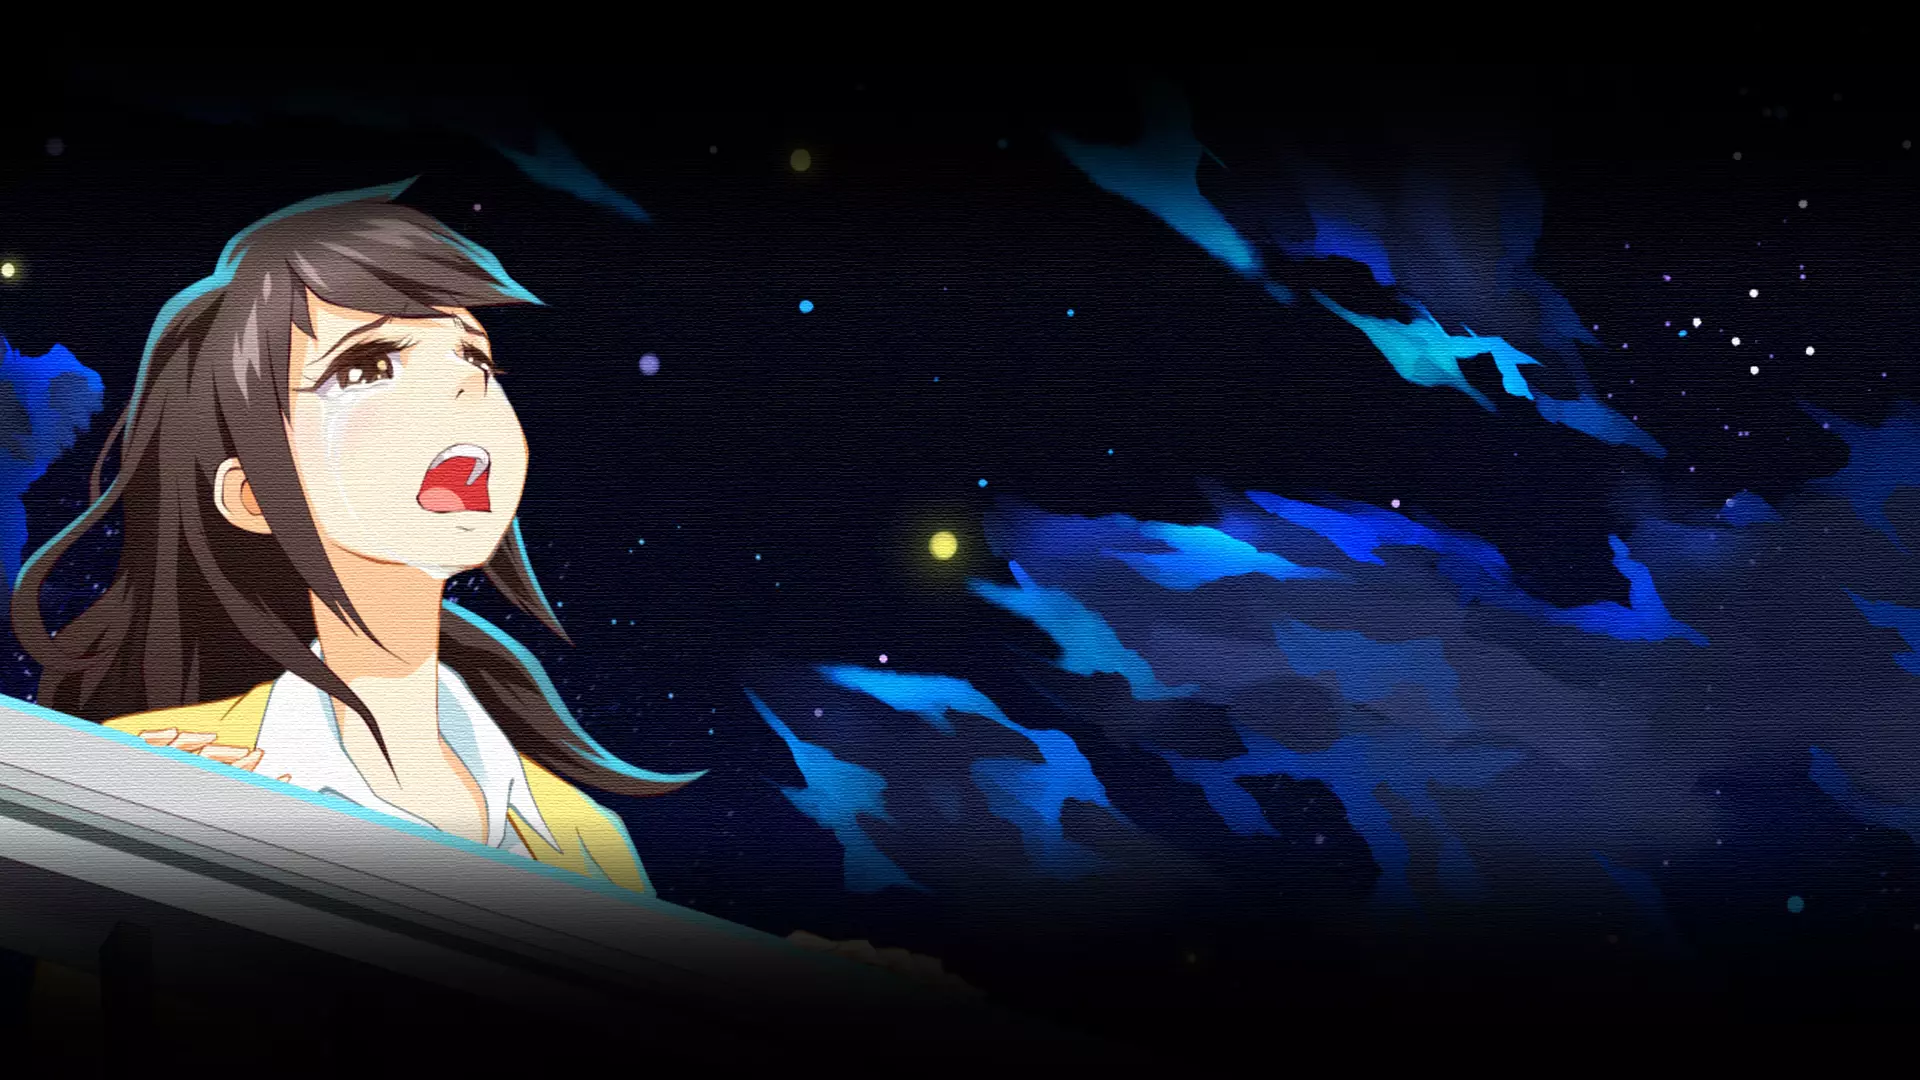
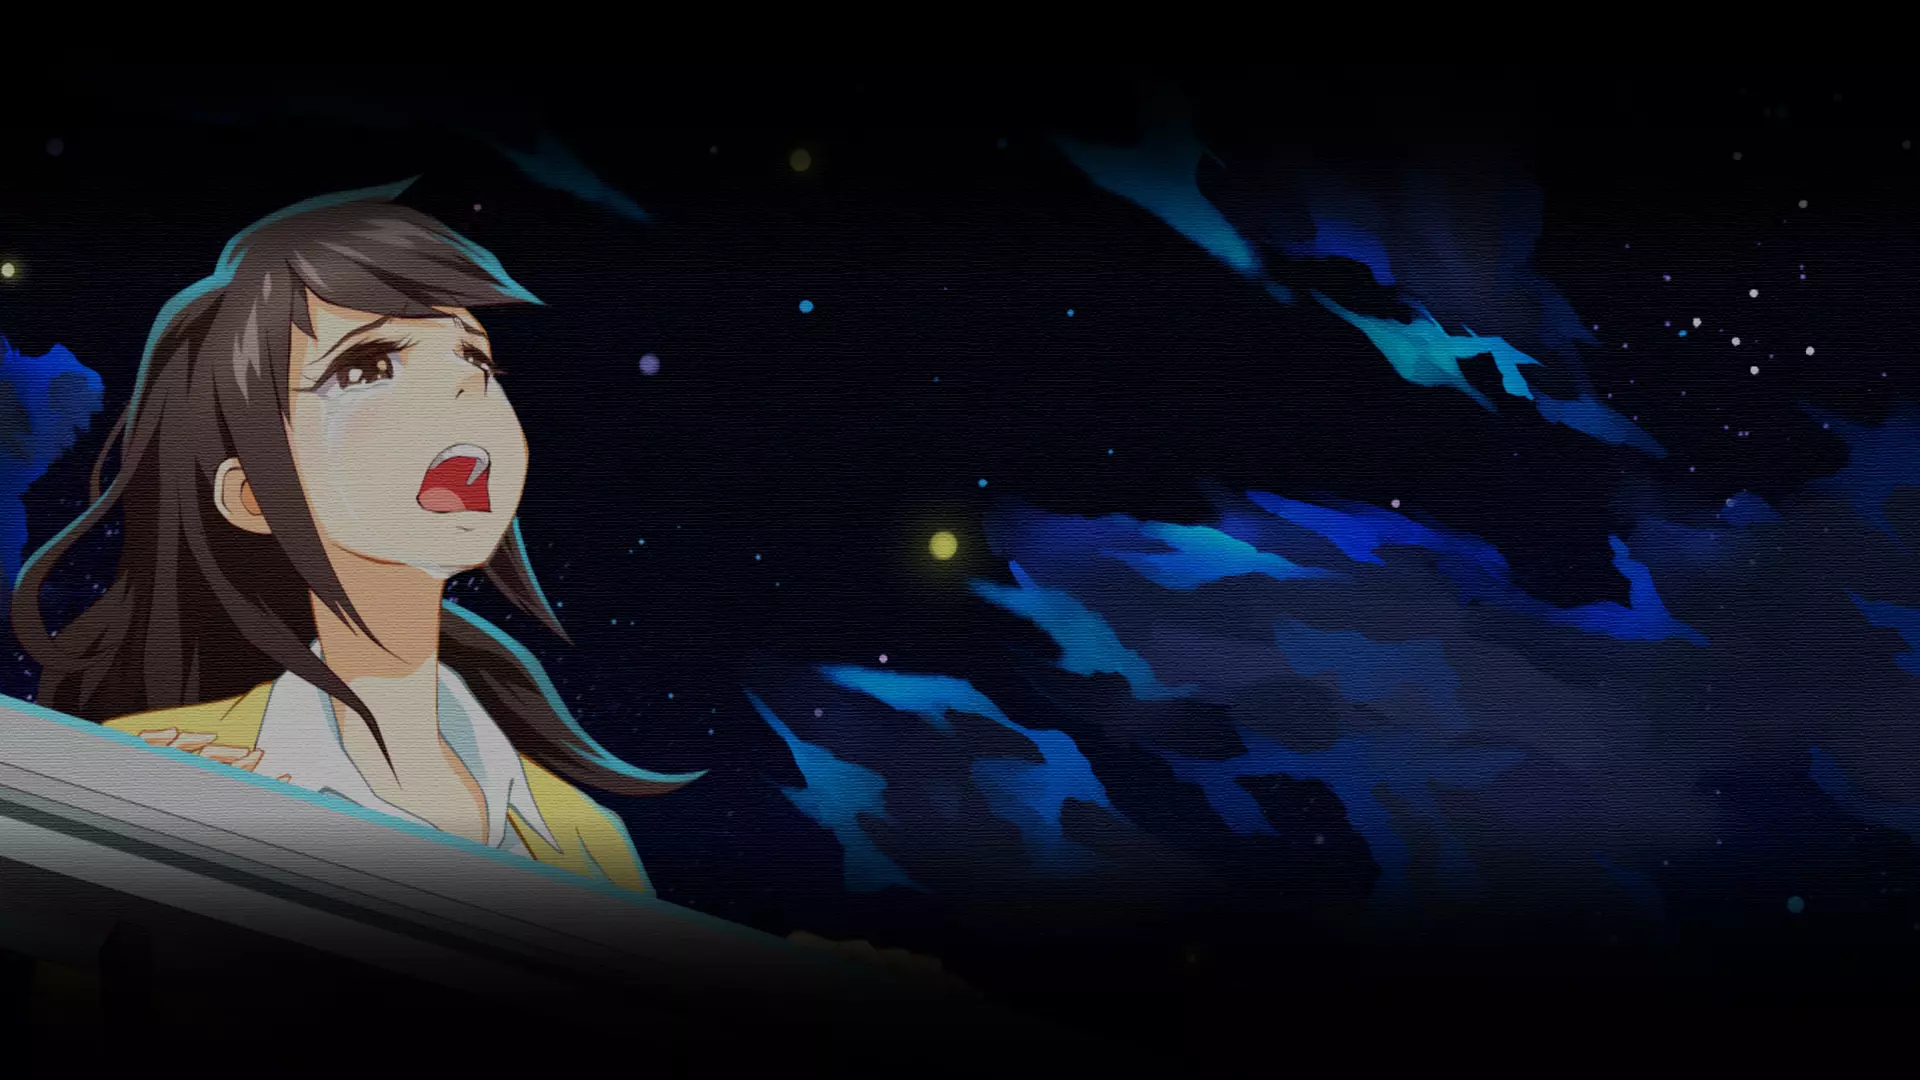
renew

diff --git a/css/grayscale.css b/css/grayscale.css
@@ -265,7 +265,7 @@ a:focus {
     width: 100%;
     padding: 50px 0;
     color: #fff;
-    background: url(../images/discouraged-workers-that-day-we.jpg) no-repeat center center scroll;
+    background: url(../images/discouraged-workers-overview.webp) no-repeat center center scroll;
     background-color: #000;
     -webkit-background-size: cover;
     -moz-background-size: cover;
@@ -305,7 +305,7 @@ a:focus {
     width: 100%;
     padding: 50px 0;
     color: #fff;
-    background: url(../images/discouraged-workers-corruption.jpg) no-repeat center center scroll;
+    background: url(../images/discouraged-workers-stores.webp) no-repeat center center scroll;
     background-color: #000;
     -webkit-background-size: cover;
     -moz-background-size: cover;
